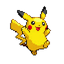
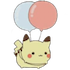
Nouvel asset Pikachu, ajout du wallpaper mouvant, génération des balls

diff --git a/src/main/java/com/esgi/scoregame/pages/GameWidget.java b/src/main/java/com/esgi/scoregame/pages/GameWidget.java
@@ -1,32 +1,48 @@
 package com.esgi.scoregame.pages;
 
 import java.io.IOException;
+import java.util.ArrayList;
+import java.util.Date;
+import java.util.Iterator;
+import java.util.List;
+import java.util.Random;
+import java.util.Timer;
+import java.util.TimerTask;
 
-import ej.microui.display.Colors;
-import ej.microui.display.Display;
-import ej.microui.display.Displayable;
+import com.esgi.scoregame.models.Ball;
+
 import ej.microui.display.GraphicsContext;
 import ej.microui.display.Image;
-import ej.microui.util.EventHandler;
 import ej.mwt.Widget;
 import ej.style.Element;
 import ej.style.State;
 
 public class GameWidget extends Widget implements Element {
 	
+	// Assets
+	private Image wallpaper;
 	private Image player;
 	private Image[] pokeball = new Image[4];
+	
+	// Attributs du jeu
+	int backgroundPosition = 0;
+	private Date startDate;
+	private List<Ball> balls = new ArrayList<Ball>();
 
 	public GameWidget() {
 		super();
-	
-		loadAssets();
-		// TODO Auto-generated constructor stub
 		
+		startDate = new Date();		
+		loadAssets();
+		
+		// Ball test
+		
+		animate();		
 	}
 	
 	public void loadAssets() {
 		try {
+			wallpaper = Image.createImage("/images/wallpaper.png");
 			player = Image.createImage("/images/pikachu.png");
 			pokeball[0] = Image.createImage("/images/pokeball.png");
 			pokeball[1] = Image.createImage("/images/superball.png");
@@ -39,15 +55,98 @@ public class GameWidget extends Widget implements Element {
 
 	@Override
 	public void render(GraphicsContext g) {
-		// TODO Auto-generated method stub
-		g.setColor(Colors.BLUE);
-		g.fillRect(0, 0, getWidth(), getHeight());
-		//g.drawImage(player, 0, 0, GraphicsContext.TOP | GraphicsContext.LEFT);
+		// Wallpaper
+		drawImage(g, wallpaper, -backgroundPosition, 0);
+		drawImage(g, wallpaper, getWidth() - backgroundPosition, 0);
 		
-		for (int i = 0; i < pokeball.length; i++)
-			drawImage(g, pokeball[i], 30 * i, 0);
+		// Player position
+		drawImage(g, player, 20, getCenterY(), GraphicsContext.VCENTER | GraphicsContext.LEFT);
 		
-		drawImageToCenter(g, player);
+		// Balls position
+		for (Ball ball : balls) {
+			drawImage(g, pokeball[ball.getBallType()], ball.getX(), ball.getY());
+		}
+	}
+	
+	public void animate(){
+		TimerTask animator = new AnimatorTask(this);
+		Timer animationTimer = new Timer();
+		animationTimer.schedule(animator, 1000/30, 1000/30);
+	}
+	
+	private class AnimatorTask extends TimerTask {
+
+		private final int ABSOLUTE_INCREMENT = 6;
+		private final GameWidget widget;
+		
+		private int left = 0;
+		private int right;
+		private int top = 0;
+		private int bottom;
+		
+		private int count = 0;
+		
+		private Random random;
+		
+		private int hMove = ABSOLUTE_INCREMENT;
+			
+		public AnimatorTask(GameWidget widget) {
+			this.widget = widget;
+			right = widget.getWidth();
+			bottom = widget.getHeight();
+			random = new Random();
+		}
+		
+		@Override
+		public void run() {
+			
+			count++;
+			
+			// Animate background
+			widget.backgroundPosition++;
+			
+			if (widget.backgroundPosition >= widget.getWidth()) {
+				widget.backgroundPosition = 0;
+			}
+			
+			/*for (Ball ball : widget.balls) {
+				
+			}*/
+			
+			Iterator<Ball> iterator = widget.balls.iterator();
+			
+			while(iterator.hasNext()) {
+				Ball ball = iterator.next();
+				
+				// Move balls toward player
+				int x = ball.getX();
+				ball.setX(x - hMove);
+				
+				// Delete balls that are outside the screen
+				if (x <= -24) {
+					iterator.remove();
+				}
+			}
+			
+			/*Iterator<String> iter = myArrayList.iterator();
+
+			while (iter.hasNext()) {
+			    String str = iter.next();
+
+			    if (someCondition)
+			        iter.remove();
+			} */
+			
+			
+			// Create new balls
+			if (count % 30 == 0) {
+				int randomHeight = random.nextInt(10) * 24;
+				int randomBall = random.nextInt(4);
+				widget.balls.add(new Ball(getWidth(), randomHeight, randomBall));
+			}
+			
+			widget.repaint();
+		}		
 	}
 	
 	public int getCenterX() {
@@ -63,7 +162,11 @@ public class GameWidget extends Widget implements Element {
 	}
 	
 	private void drawImage(GraphicsContext g, Image image, int x, int y) {
-		g.drawImage(image, x, y, GraphicsContext.TOP | GraphicsContext.LEFT);
+		drawImage(g, image, x, y, GraphicsContext.TOP | GraphicsContext.LEFT);
+	}
+	
+	private void drawImage(GraphicsContext g, Image image, int x, int y, int anchor) {
+		g.drawImage(image, x, y, anchor);
 	}
 
 	@Override

diff --git a/src/main/java/com/esgi/scoregame/MainActivity.java b/src/main/java/com/esgi/scoregame/MainActivity.java
@@ -7,13 +7,15 @@ import com.esgi.scoregame.pages.MenuPage;
 import com.esgi.scoregame.pages.ScorePage;
 
 import ej.microui.MicroUI;
-import ej.navigation.desktop.NavigationDesktop;
-import ej.navigation.page.Page;
+import ej.mwt.Desktop;
+import ej.mwt.Panel;
 import ej.wadapps.app.Activity;
+import ej.widget.navigation.navigator.HistorizedNavigator;
+import ej.widget.navigation.transition.HorizontalTransitionManager;
 
 public class MainActivity implements Activity {
 	
-	private static NavigationDesktop nd;
+	private static HistorizedNavigator navigator;
 	private static ArrayList<Double> scores;
 
 	@Override
@@ -39,11 +41,21 @@ public class MainActivity implements Activity {
 		// TODO Auto-generated method stub
 		MicroUI.start();
 		
-		nd = new NavigationDesktop();
+		navigator = new HistorizedNavigator();
+		navigator.setTransitionManager(new HorizontalTransitionManager());
+		
 		scores = new ArrayList<Double>();
 		
-		//nd.show(new MenuPage());
-		nd.show(new GamePage()); // Development purpose
+		//navigator.show(new MenuPage());
+		navigator.show(new GamePage()); // Development purpose
+		
+		Desktop desktop = new Desktop();
+		Panel mainPanel = new Panel();
+		
+		mainPanel.setWidget(navigator);
+		mainPanel.show(desktop, true);
+		
+		desktop.show();
 	}
 
 	@Override
@@ -70,7 +82,7 @@ public class MainActivity implements Activity {
 
 	}
 	
-	public static void display(Page p){
+	/*public static void display(Page p){
 		nd.show(p);
-	}
+	}*/
 }

diff --git a/src/main/java/com/esgi/scoregame/pages/MenuPage.java b/src/main/java/com/esgi/scoregame/pages/MenuPage.java
@@ -2,12 +2,13 @@ package com.esgi.scoregame.pages;
 
 import com.esgi.scoregame.MainActivity;
 
-import ej.container.List;
-import ej.container.Split;
-import ej.navigation.page.Page;
+
 import ej.widget.basic.Label;
 import ej.widget.composed.Button;
+import ej.widget.container.List;
+import ej.widget.container.Split;
 import ej.widget.listener.OnClickListener;
+import ej.widget.navigation.page.Page;
 
 public class MenuPage extends Page {
 	
@@ -35,7 +36,7 @@ public class MenuPage extends Page {
 			
 			@Override
 			public void onClick() {
-				MainActivity.display(new GamePage());
+				//MainActivity.display(new GamePage());
 			}
 		});
 		

diff --git a/src/main/java/com/esgi/scoregame/models/Ball.java b/src/main/java/com/esgi/scoregame/models/Ball.java
@@ -1,0 +1,41 @@
+package com.esgi.scoregame.models;
+
+public class Ball {
+	private int x;
+	private int y;
+	private int ballType = 0;
+	
+	public Ball(int x, int y) {
+		this.x = x;
+		this.y = y;
+	}
+	
+	public Ball(int x, int y, int ballType) {
+		this(x, y);
+		this.ballType = ballType;
+	}
+	
+	public int getX() {
+		return x;
+	}
+	
+	public int getY() {
+		return y;
+	}
+	
+	public int getBallType() {
+		return ballType;
+	}
+	
+	public void setX(int x) {
+		this.x = x;
+	}
+	
+	public void setY(int y) {
+		this.y = y;
+	}
+	
+	public void setBallType(int ballType) {
+		this.ballType = ballType;
+	}
+}

diff --git a/src/main/java/com/esgi/scoregame/pages/ScorePage.java b/src/main/java/com/esgi/scoregame/pages/ScorePage.java
@@ -1,11 +1,11 @@
 package com.esgi.scoregame.pages;
 
-import ej.container.List;
-import ej.container.Split;
-import ej.navigation.page.Page;
+
 import ej.widget.basic.Label;
 import ej.widget.composed.Button;
+import ej.widget.container.Split;
 import ej.widget.listener.OnClickListener;
+import ej.widget.navigation.page.Page;
 
 public class ScorePage extends Page {
 

diff --git a/src/main/java/com/esgi/scoregame/pages/GamePage.java b/src/main/java/com/esgi/scoregame/pages/GamePage.java
@@ -1,8 +1,8 @@
 package com.esgi.scoregame.pages;
 
-import ej.container.Split;
-import ej.navigation.page.Page;
 import ej.widget.composed.Button;
+import ej.widget.container.Split;
+import ej.widget.navigation.page.Page;
 
 public class GamePage extends Page {
 	
